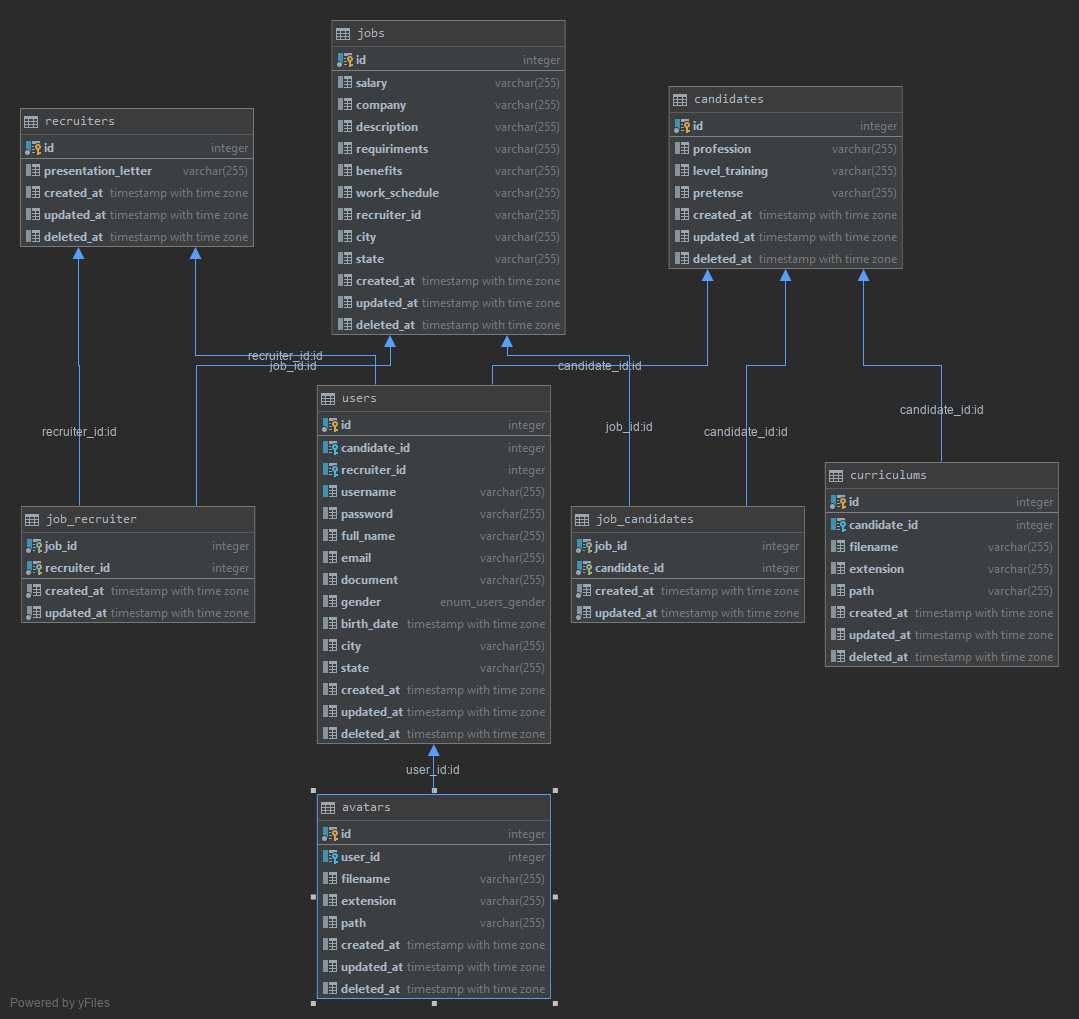
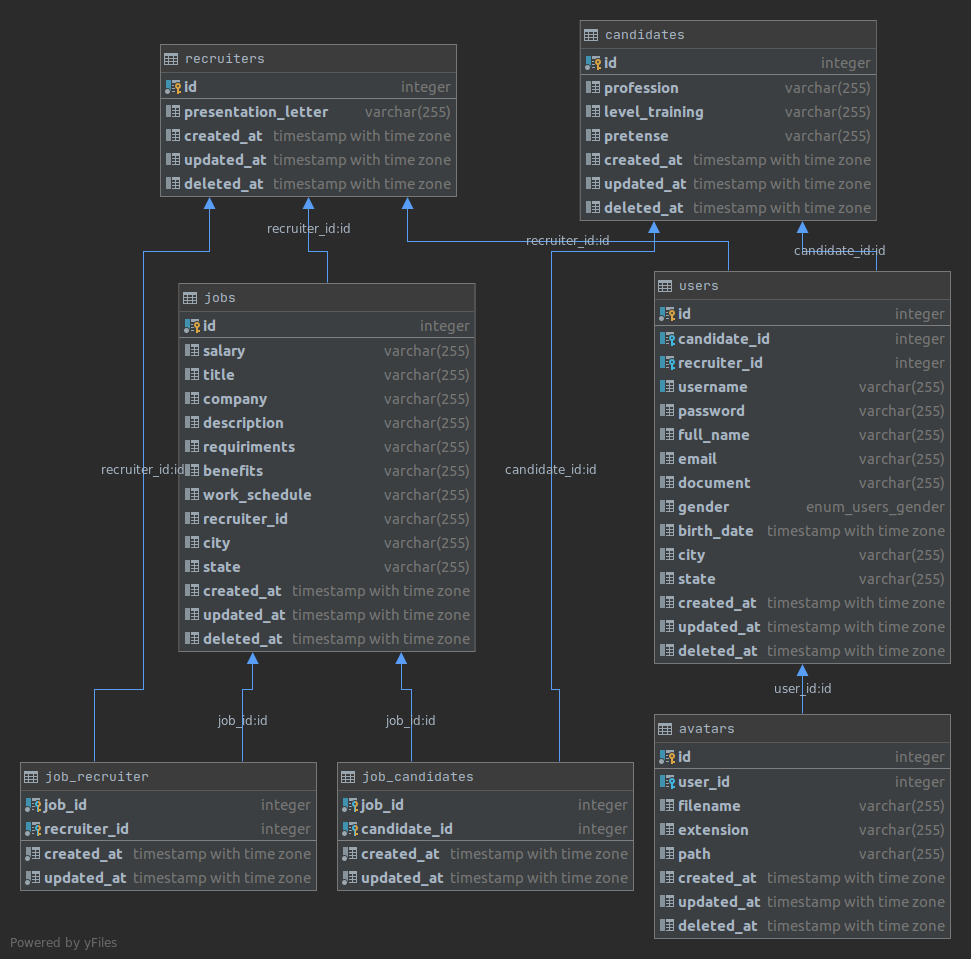
updated curriculum

diff --git a/src/app/services/curriculum.service.ts b/src/app/services/curriculum.service.ts
@@ -1,72 +1,46 @@
-import * as express from 'express';
 import { ApiError } from '../../middlewares/ApiError';
-import UploadService from './upload.service';
-import StorageService from './storage.service';
 import Curriculum from '../models/curriculum.model';
 
 export default class CurriculumService {
-  public static async show(candidateId): Promise<Curriculum> {
-    const curriculum = await Curriculum.findOne({ where: { candidateId } });
-
+  public static async show(candidateId: number): Promise<Curriculum> {
+    const curriculum = await Curriculum.findByPk(candidateId);
     if (!curriculum) {
       throw new ApiError('Curriculo nao encontrado.', 404);
     }
-
     return curriculum;
   }
 
-  public static async store(body: express.Request, candidateId: number) {
-    const curriculumExists = await Curriculum.findOne({
-      where: { candidateId },
-    });
-
-    if (curriculumExists) {
-      throw new ApiError('candidado ja possui curriculo cadastrado', 400);
-    }
-
-    const { file } = await UploadService.store(body, 'Curriculum', {
-      allowExtenstions: ['.docx', '.doc', '.pdf'],
-      maxSize: 1024 * 2048,
-    });
-
+  public static async store(body): Promise<Curriculum> {
     const curriculum = await Curriculum.create({
-      filename: file.filename,
-      extension: file.originalname.substr(file.originalname.lastIndexOf('.')),
-      path: `/Curriculum/${file.filename}`,
-      candidateId,
+      ...body,
     }).catch((error) => {
       throw new ApiError(error, 400);
     });
 
-    return curriculum.save();
+    return curriculum;
   }
 
-  public static async update(candidateId: number, body) {
-    const { file } = await UploadService.store(body, 'Curriculum', {
-      allowExtenstions: ['.docx', '.doc', '.pdf'],
-      maxSize: 1024 * 2048,
+  public static async update(body, candidateId: number) {
+    const curriculum = await Curriculum.findByPk(candidateId);
+
+    if (!curriculum) {
+      throw new ApiError('Curriculo não localizado para o ID informado', 404);
+    }
+
+    await curriculum.update({ ...body }).catch((error) => {
+      throw new ApiError(error, 400);
     });
 
-    const curriculum = await Curriculum.findOne({ where: { candidateId } });
-
-    await StorageService.remove(curriculum.path);
-
-    await curriculum
-      .update({
-        filename: file.filename,
-        extension: file.originalname.slice(-4),
-        path: `/Curriculum/${file.filename}`,
-      })
-      .catch((error) => {
-        throw new ApiError(error, 400);
-      });
-
-    return curriculum.save();
+    return curriculum;
   }
 
   public static async delete(candidateId: number): Promise<any> {
-    const curriculum = await Curriculum.findOne({ where: { candidateId } });
-    StorageService.remove(curriculum.path);
+    const curriculum = await Curriculum.findByPk(candidateId);
+
+    if (!curriculum) {
+      throw new ApiError('Curriculo não localizado para o ID informado', 404);
+    }
+
     return curriculum.destroy({ force: true });
   }
 }

diff --git a/src/app/controllers/curriculum.controller.ts b/src/app/controllers/curriculum.controller.ts
@@ -9,31 +9,18 @@ export default new (class CurriculumController {
   }
 
   public routes() {
-    this.router.post('/:id/curriculum', this.uploadFile);
+    this.router.post('/:id/curriculum', this.store);
     this.router.get('/:id/curriculum', this.show);
-    this.router.put('/:id/curriculum', this.updateFile);
+    this.router.put('/:id/curriculum', this.update);
     this.router.delete('/:id/curriculum', this.delete);
     return this.router;
-  }
-
-  public async uploadFile(req: Request, res: Response): Promise<any> {
-    try {
-      const { id } = req.params;
-      const curriculum = await CurriculumService.store(req, Number(id));
-
-      res.status(201).json(curriculum);
-    } catch (error) {
-      const { name: message, statusCode } = error;
-
-      res.status(statusCode).json({ message });
-    }
   }
 
   private async show(req: Request, res: Response): Promise<any> {
     try {
       const { id } = req.params;
-      const candidate = await CurriculumService.show(Number(id));
-      res.status(200).json(candidate);
+      const recruiter = await CurriculumService.show(Number(id));
+      res.status(200).json(recruiter);
     } catch (error) {
       const { name: message, statusCode } = error;
 
@@ -41,12 +28,22 @@ export default new (class CurriculumController {
     }
   }
 
-  private async updateFile(req: Request, res: Response): Promise<any> {
+  private async store(req: Request, res: Response): Promise<any> {
+    try {
+      const recruiter = await CurriculumService.store(req.body);
+      res.status(201).json(recruiter);
+    } catch (error) {
+      const { name: message, statusCode } = error;
+      res.status(statusCode).json({ message });
+    }
+  }
+
+  private async update(req: Request, res: Response): Promise<any> {
     try {
       const { id } = req.params;
-      const candidate = await CurriculumService.update(Number(id), req);
+      const recruiter = await CurriculumService.update(Number(id), req.body);
 
-      res.status(200).json(candidate);
+      res.status(200).json(recruiter);
     } catch (error) {
       const { name: message, statusCode } = error;
 
@@ -57,9 +54,9 @@ export default new (class CurriculumController {
   private async delete(req: Request, res: Response): Promise<void> {
     try {
       const { id } = req.params;
-      const candidate = await CurriculumService.delete(Number(id));
+      const recruiter = await CurriculumService.delete(Number(id));
 
-      res.status(200).json({ candidate });
+      res.status(200).json({ recruiter });
     } catch (error) {
       const { name: message, statusCode } = error;
 

diff --git a/src/app/models/curriculum.model.ts b/src/app/models/curriculum.model.ts
@@ -33,13 +33,25 @@ export default class Curriculum extends Model<Curriculum> {
   public candidate: Candidate;
 
   @Column
-  public filename: string;
+  public telephone: number;
 
   @Column
-  public extension: string;
+  public cellPhone: number;
 
   @Column
-  public path: string;
+  public interest: string;
+
+  @Column
+  public professionalGoal: string;
+
+  @Column
+  public professionalResume: string;
+
+  @Column
+  public course: string;
+
+  @Column
+  public company: string;
 
   @CreatedAt
   @Column({ field: 'created_at' })

diff --git a/src/app/services/candidate.service.ts b/src/app/services/candidate.service.ts
@@ -71,7 +71,7 @@ export default class CandidateService {
     }
     await candidate.$add('jobs', job);
 
-    return await Candidate.findByPk(candidateId, {
+    return Candidate.findByPk(candidateId, {
       include: [{ model: Job }],
     });
   }
